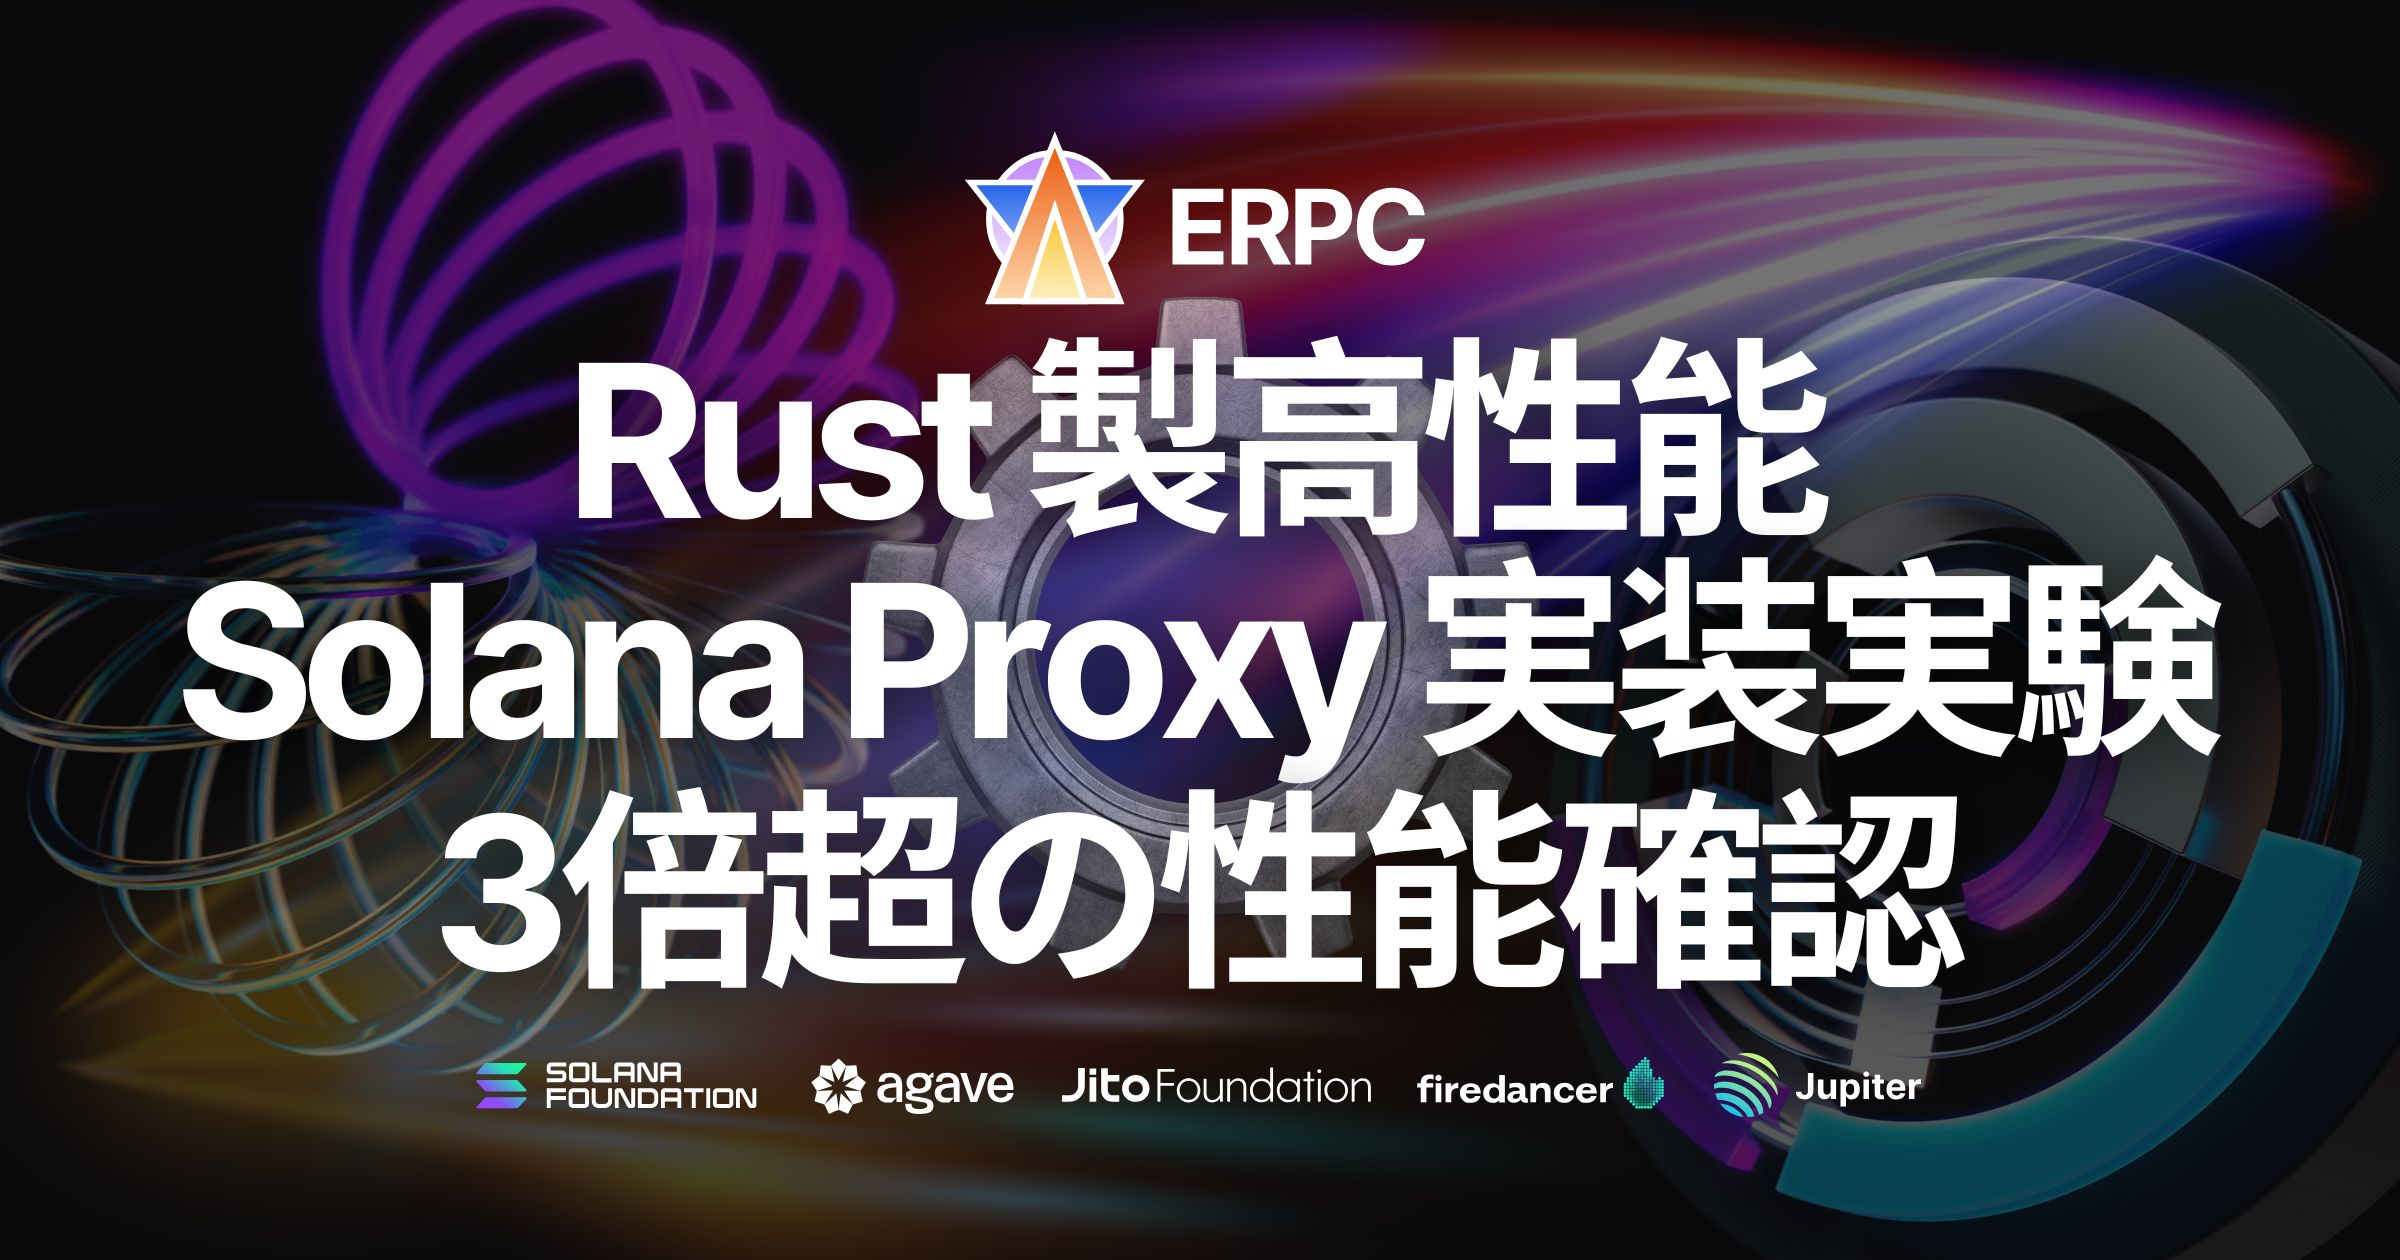
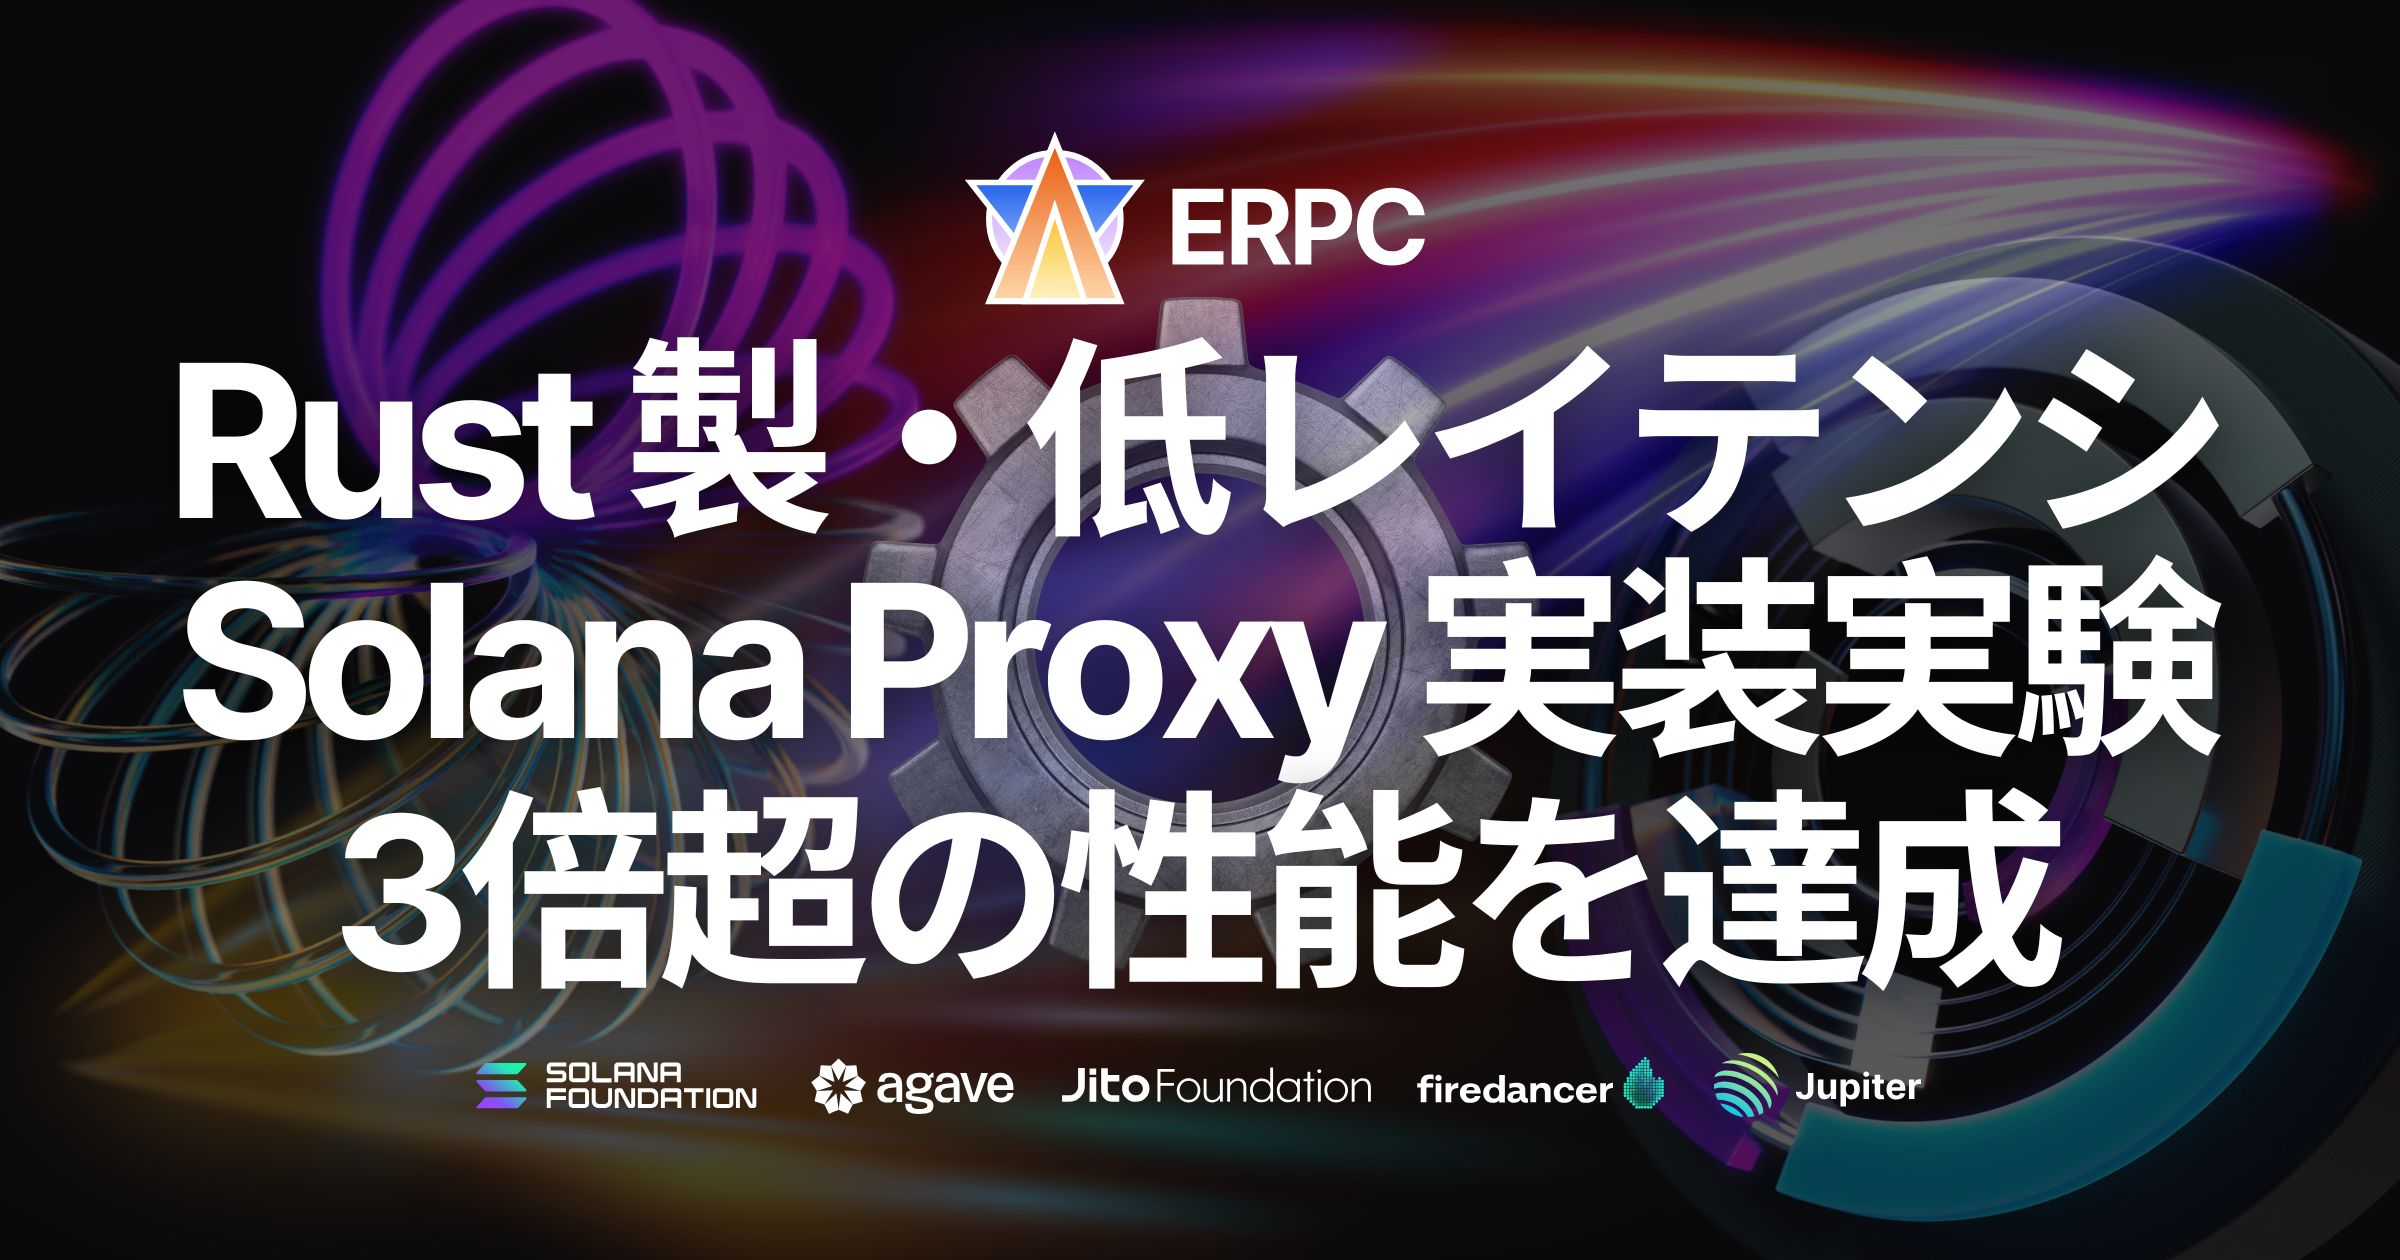
update title & thumbnail

Changed region(s): [[0.0625, 0.2476, 0.9375, 0.4333], [0.125, 0.619, 0.875, 0.8048]]

diff --git a/website/slv-dev/articles/news/ja/2025/01/10/solana-erpc-achieves-over-3x-performance-improvement.md b/website/slv-dev/articles/news/ja/2025/01/10/solana-erpc-achieves-over-3x-performance-improvement.md
@@ -1,11 +1,11 @@
 ---
 id: solana-erpc-achieves-over-3x-performance-improvement
-title: Solana ERPC、Rust 製高性能ネットワークシステム実装実験で3倍超の性能を達成
+title: Solana ERPC、Rust 製・低レイテンシネットワークシステム実装実験で3倍超の性能を達成
 category: プレスリリース
 thumbnail: /news/2025/01/10/rust-based-solana-proxy-delivers-3x-performanceJA.jpg
 ---
 
-ELSOUL LABO B.V.（本社: オランダ・アムステルダム、代表取締役 CEO: 川崎文武）と、Solana ネットワークの分散化・セキュリティ強化を推進する Validators DAO は、Solana Enhanced RPC（以下「ERPC」）のプロキシを従来の Nginx ベースから Rust 製の高性能ネットワークシステムフレームワーク「Pingora」ベースに換装する実験を行い、ピーク時に 3 倍を超える性能改善を確認したことを発表しました。今後は本番環境での導入を順次進め、さらなる速度と安定性を提供してまいります。
+ELSOUL LABO B.V.（本社: オランダ・アムステルダム、代表取締役 CEO: 川崎文武）と、Solana ネットワークの分散化・セキュリティ強化を推進する Validators DAO は、Solana Enhanced RPC（以下「ERPC」）のプロキシを従来の Nginx ベースから Rust 製の高性能ネットワークシステムフレームワーク「Pingora」ベースに換装する実験を行い、ピーク時に 3 倍を超える性能改善を達成したことを発表しました。今後は本番環境での導入を順次進め、さらなる速度と安定性を提供してまいります。
 
 DeFi トレードや NFT ミントなど、アクセスが集中するタイミングでこそトランザクションを迅速に処理できることが重要です。高負荷時でも安定した接続を維持し、ユーザーが機会を逃さずに取引を成立させられるよう、今回の実装実験ではピーク時のスループット向上と低レイテンシ化に特に注力しました。
 
